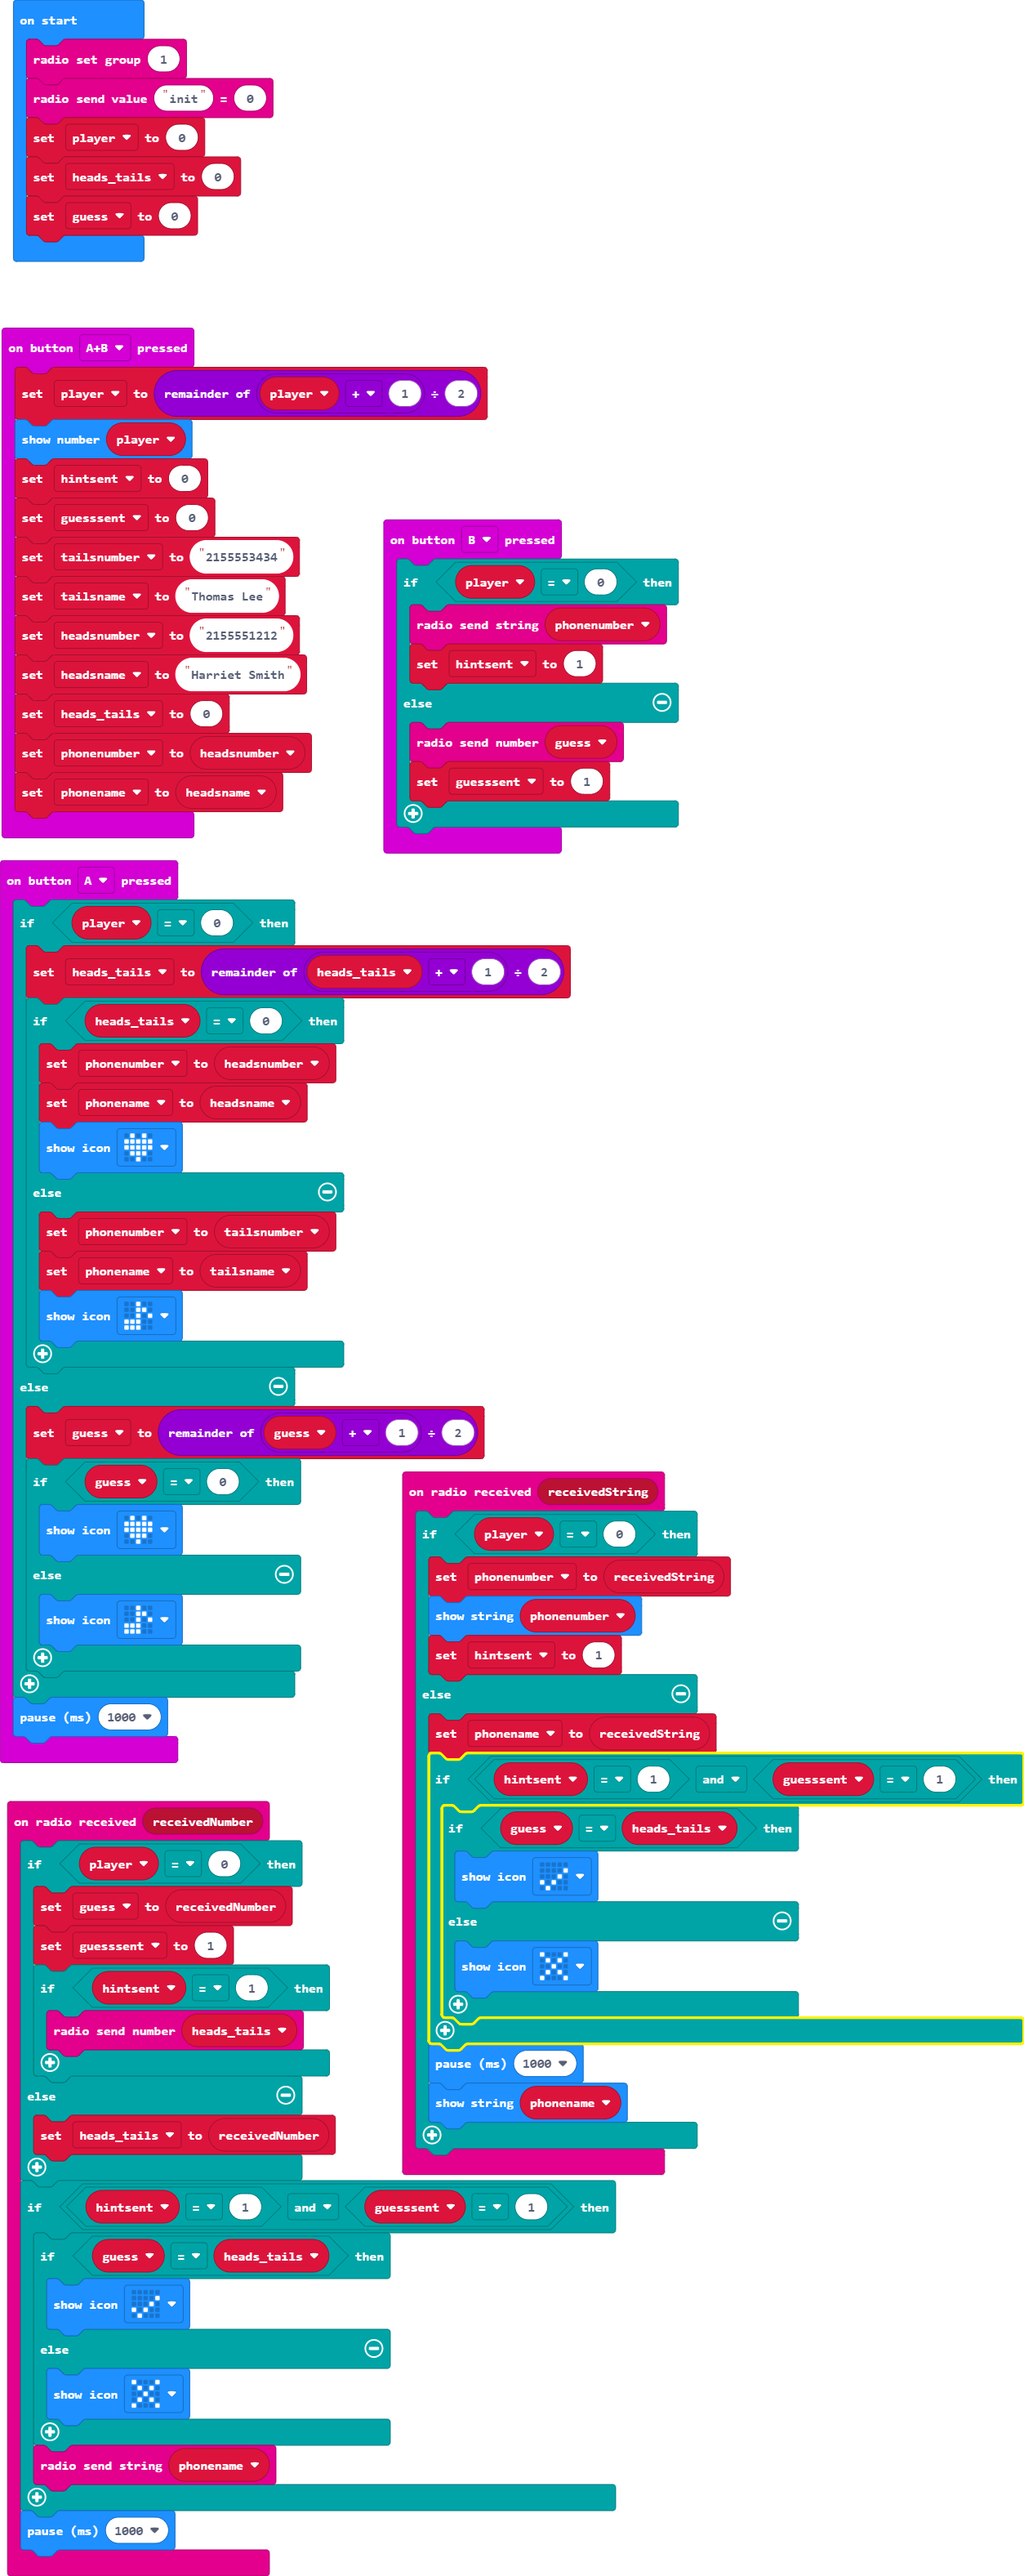
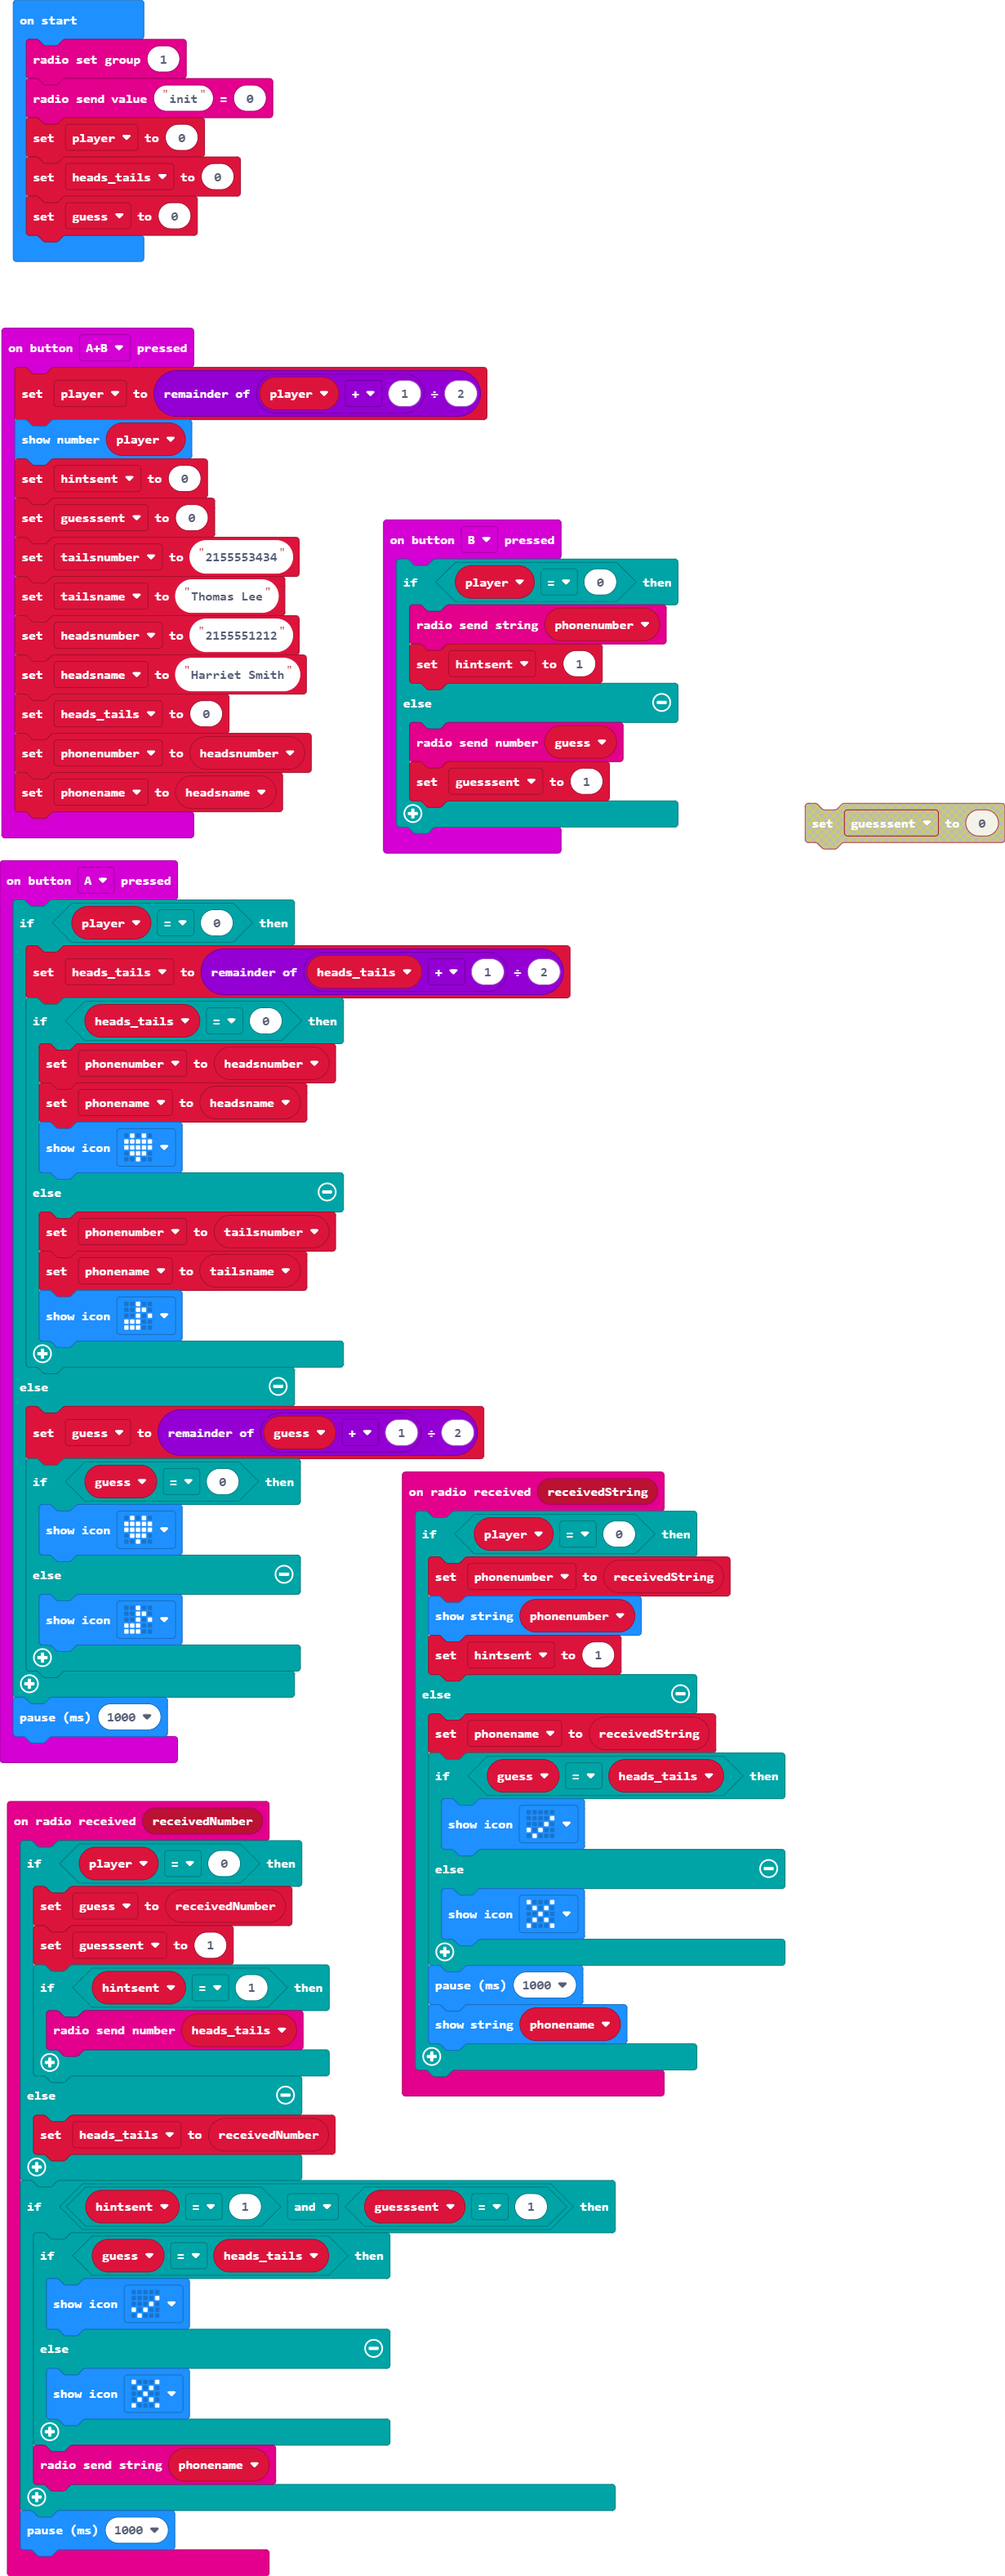
Avoiding race condition when receiving the final answer.  If the other person is telling us this, we have definitely sent them a guess, so no need to check again.

diff --git a/main.ts b/main.ts
@@ -60,12 +60,10 @@ radio.onReceivedString(function (receivedString) {
         hintsent = 1
     } else {
         phonename = receivedString
-        if (hintsent == 1 && guesssent == 1) {
-            if (guess == heads_tails) {
-                basic.showIcon(IconNames.Yes)
-            } else {
-                basic.showIcon(IconNames.No)
-            }
+        if (guess == heads_tails) {
+            basic.showIcon(IconNames.Yes)
+        } else {
+            basic.showIcon(IconNames.No)
         }
         basic.pause(1000)
         basic.showString("" + (phonename))
